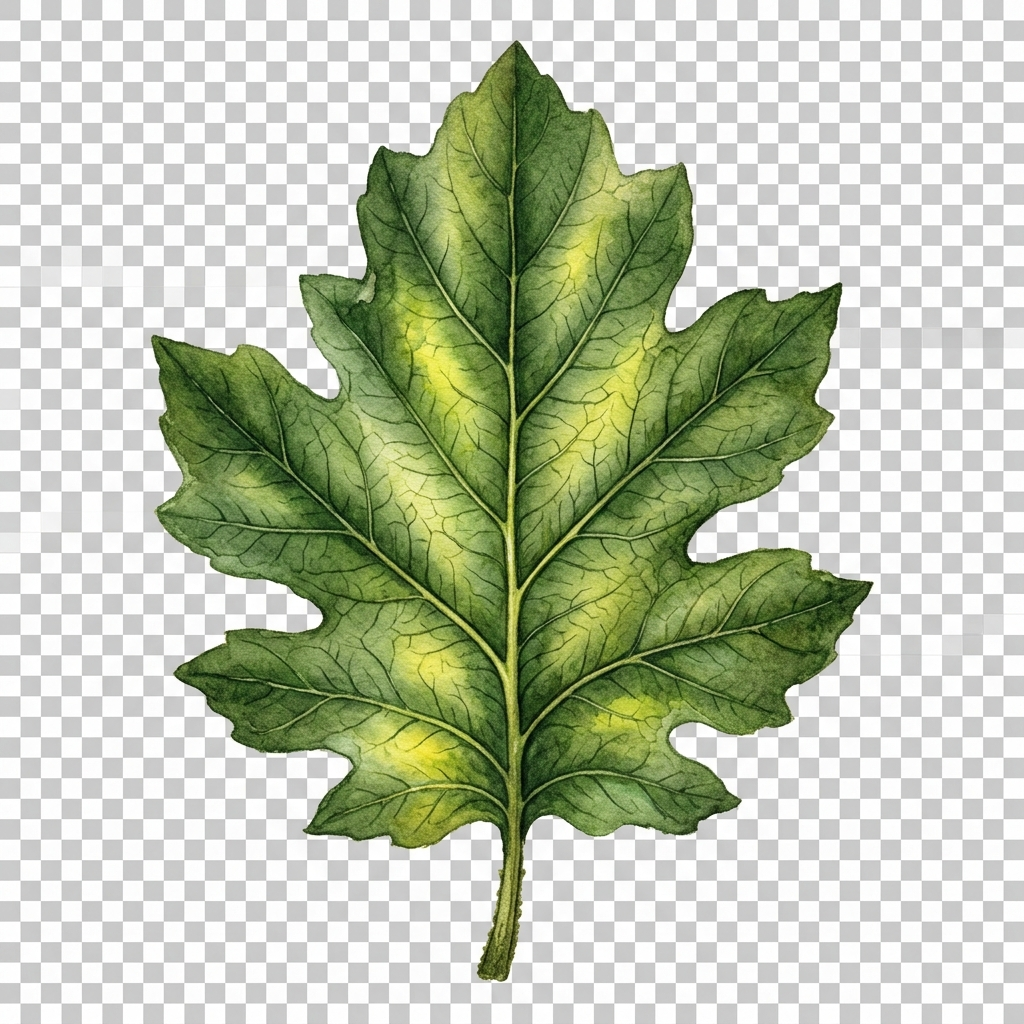
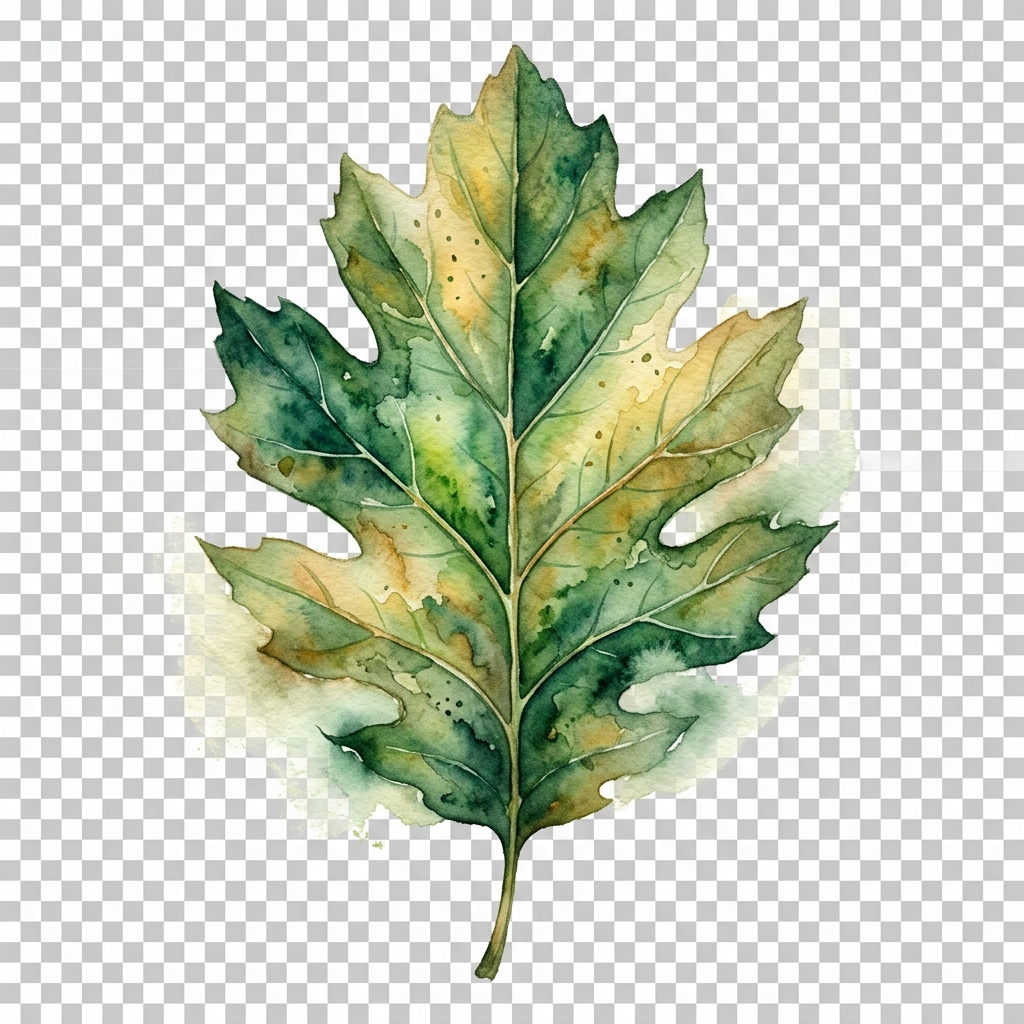
UI: nove verze obrazku pro sekci Co je Wildero s rozpitymi okraji

diff --git a/index.html b/index.html
@@ -151,7 +151,7 @@
                     <!-- Column 3: Fox -->
                     <div class="about-item aos aos-delay-3">
                         <div class="about-visual">
-                            <img src="wilda_fox_new.png" alt="Lišák Wilda" class="about-image">
+                            <img src="about_fox.png" alt="Lišák Wilda" class="about-image">
                         </div>
                         <h3 class="about-title">Wilda – průvodce na cestě</h3>
                         <p class="about-text">Wilda ti ukáže úkoly, poradí a povzbudí tě na každém kroku.</p>
